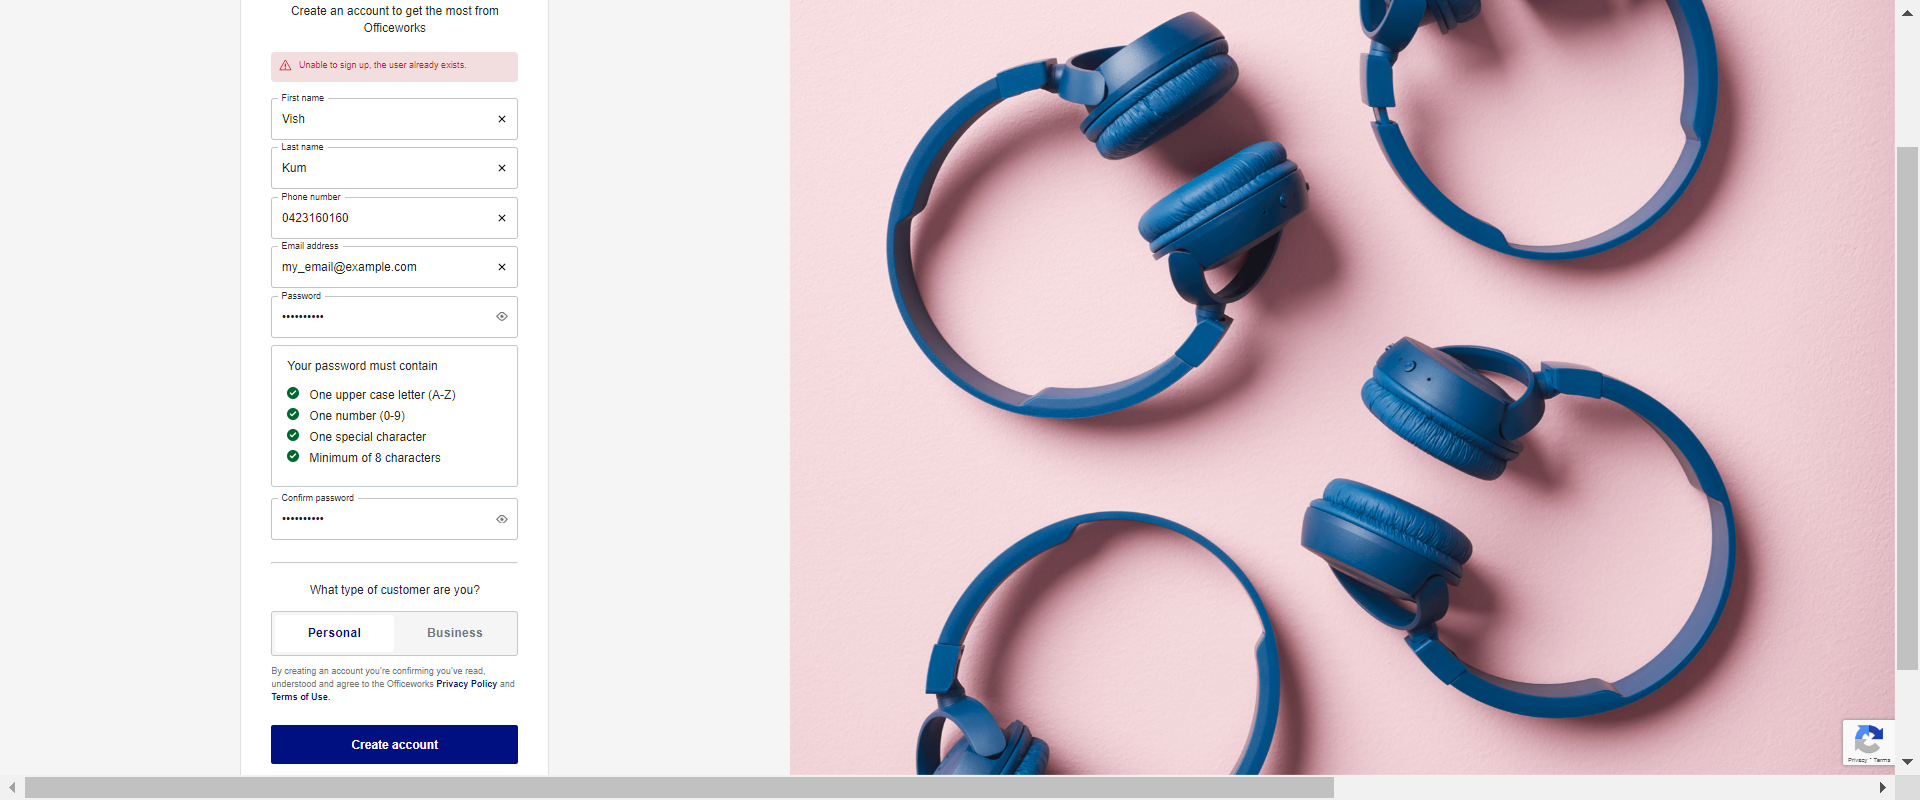
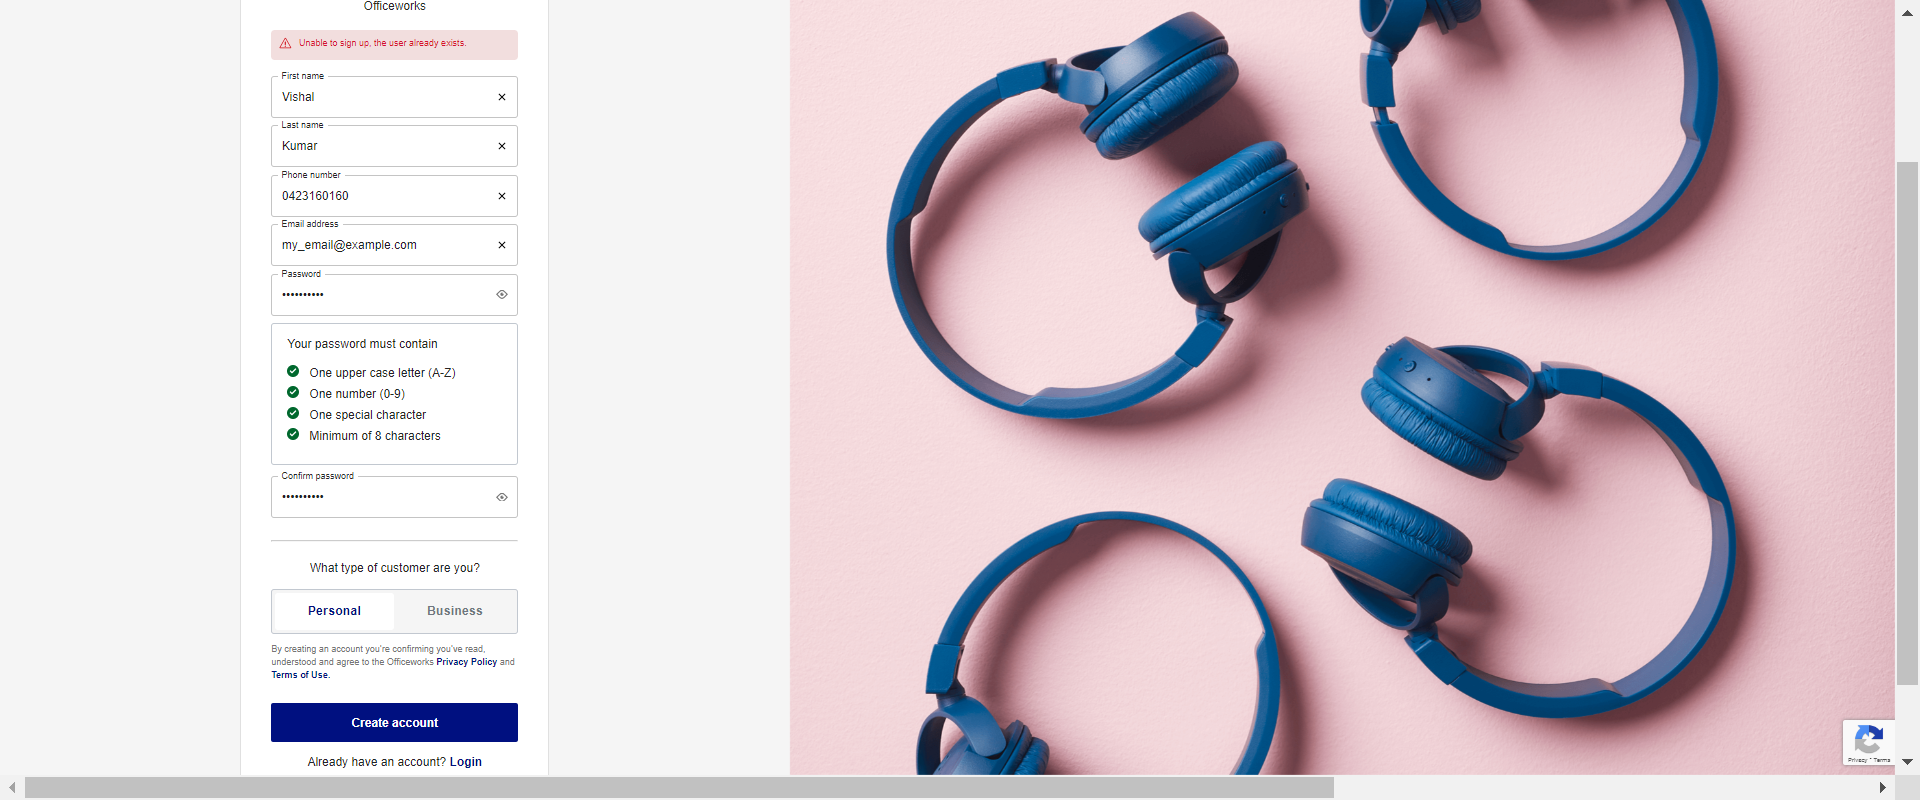
Committing Change

diff --git a/src/main/java/MySeleniumScript.java b/src/main/java/MySeleniumScript.java
@@ -6,6 +6,7 @@ import org.openqa.selenium.chrome.ChromeOptions;
 import org.openqa.selenium.OutputType;
 import org.openqa.selenium.TakesScreenshot;
 import org.openqa.selenium.io.FileHandler;
+import org.openqa.selenium.support.locators.RelativeLocator;
 
 import java.io.File;
 import java.io.IOException;
@@ -28,24 +29,26 @@ public class MySeleniumScript {
 		driver.get(
 				"https://www.officeworks.com.au/app/identity/create-account?redirect_path=%2Fapp%2Fcatalogue%2Flogin-redirect%3Fcomponent_id%3DODP-login-button%26entry_point%3D%2F");
 
-		// Fill values in target elements
-		WebElement firstNameInput = driver.findElement(By.id("firstname"));
-		firstNameInput.sendKeys("Vish");
+		// Fill values in target elements using relative locators
 
-		WebElement lastNameInput = driver.findElement(By.id("lastname"));
-		lastNameInput.sendKeys("Kum");
+		
+        WebElement firstName = driver.findElement(RelativeLocator.with(By.tagName("input")).above(By.id("lastname")));
+        firstName.sendKeys("Vishal");
 
-		WebElement emailInput = driver.findElement(By.id("email"));
-		emailInput.sendKeys("my_email@example.com");
+        WebElement lastName = driver.findElement(RelativeLocator.with(By.tagName("input")).below(By.id("firstname")));
+        lastName.sendKeys("Kumar");
 
-		WebElement phoneInput = driver.findElement(By.id("phoneNumber"));
-		phoneInput.sendKeys("0423160160");
+        WebElement email = driver.findElement(RelativeLocator.with(By.tagName("input")).below(By.id("phoneNumber")));
+        email.sendKeys("my_email@example.com");
 
-		WebElement passwordInput = driver.findElement(By.id("password"));
-		passwordInput.sendKeys("Password@1");
+        WebElement phone = driver.findElement(RelativeLocator.with(By.tagName("input")).below(By.id("lastname")));
+        phone.sendKeys("0423160160");
 
-		WebElement confirmPasswordInput = driver.findElement(By.id("confirmPassword"));
-		confirmPasswordInput.sendKeys("Password@1");
+        WebElement password = driver.findElement(RelativeLocator.with(By.tagName("input")).below(By.id("email")));
+        password.sendKeys("Password@1");
+
+        WebElement confirmPassword = driver.findElement(RelativeLocator.with(By.tagName("input")).below(By.id("password")));
+        confirmPassword.sendKeys("Password@1");
 
 		// Identify Create account button and click
 		WebElement createAccountButton = driver.findElement(By.xpath("//button[contains(text(),'Create account')]"));
